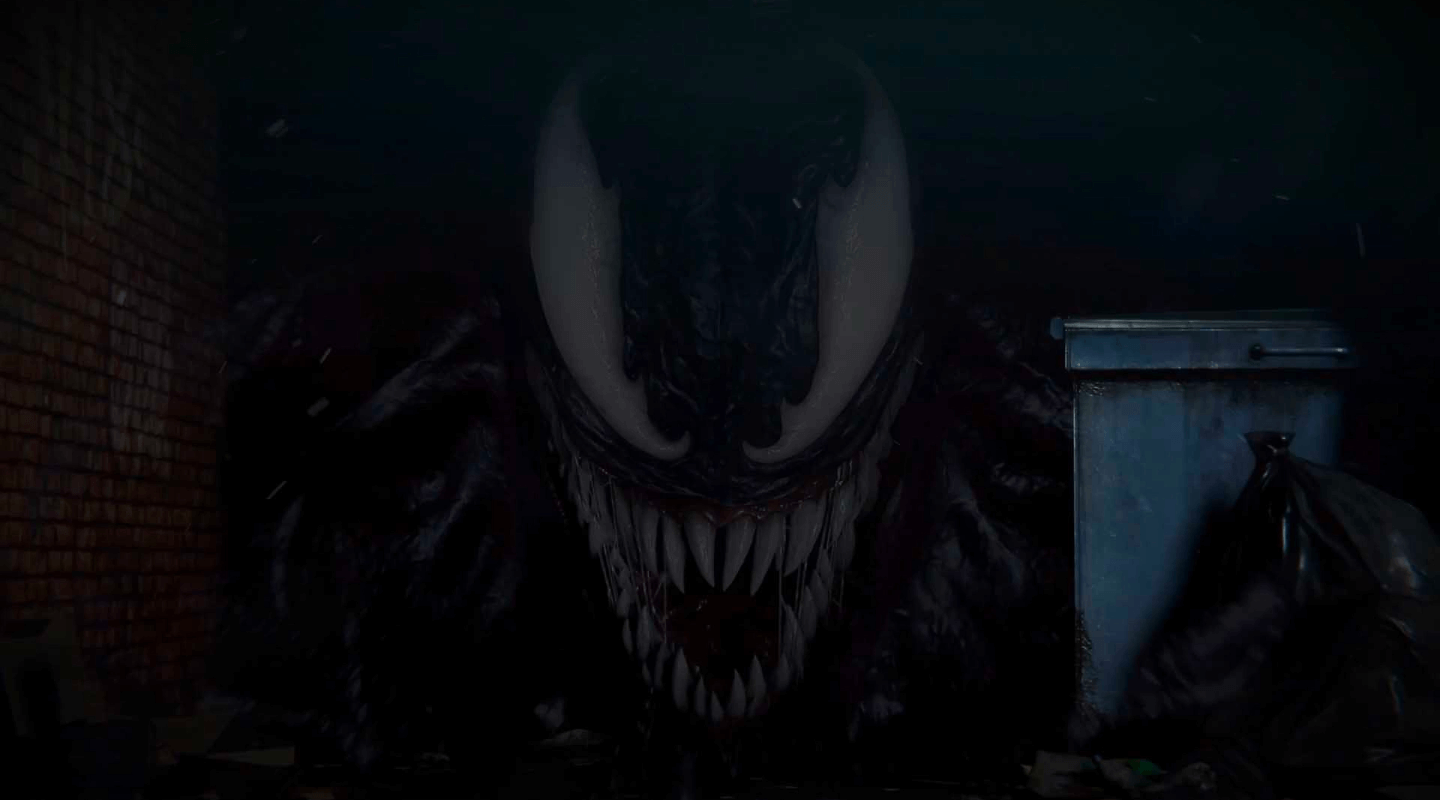
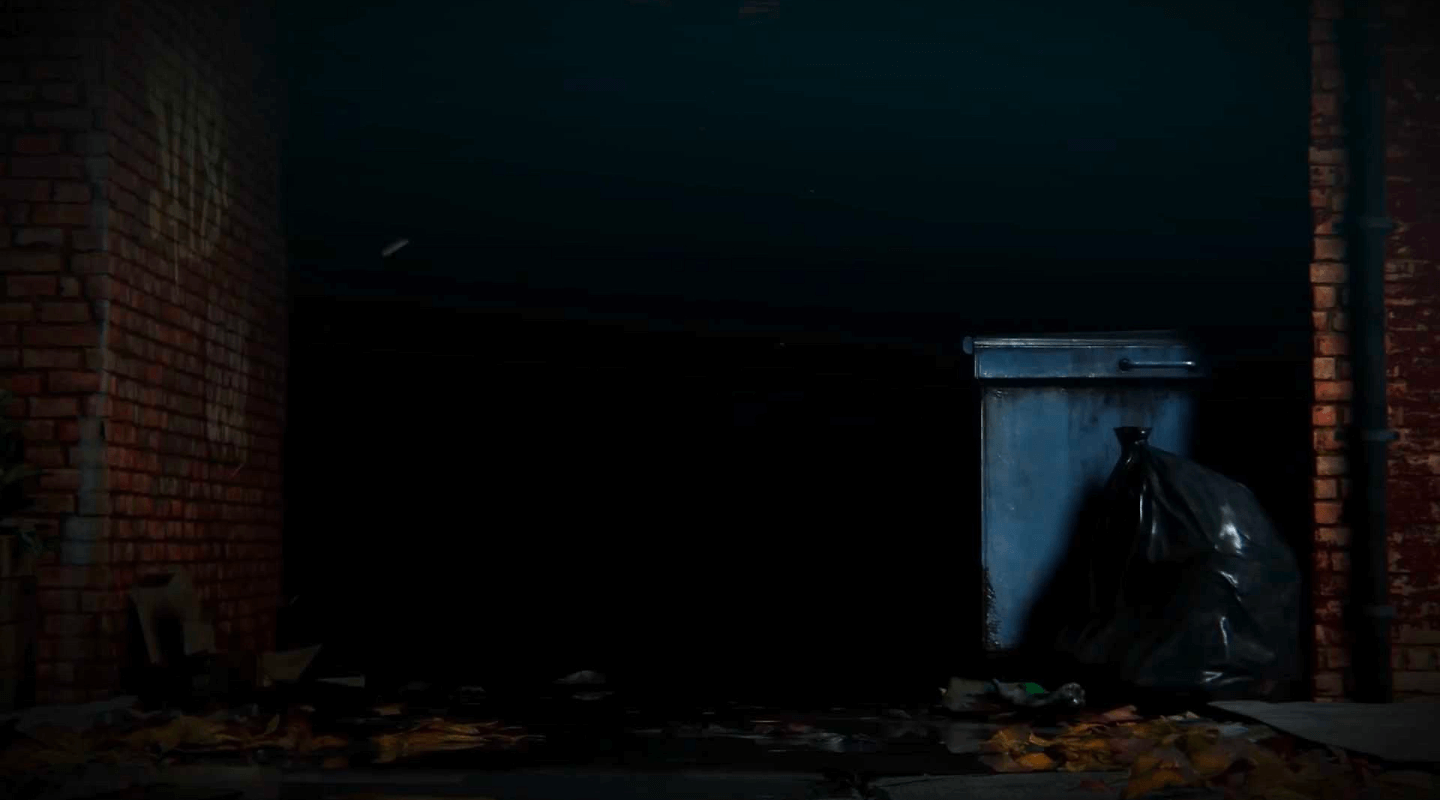
:construction: feat: Added animations and changed the background images to cycle through all images in the /img/bg/ directory.

diff --git a/css/styles.css b/css/styles.css
@@ -76,6 +76,7 @@ header {
 	display: flex;
 	background-color: rgb(0 4 7 / 0.9);
 	backdrop-filter: blur(4rem);
+	z-index: 20;
 }
 
 header .container {
@@ -129,6 +130,7 @@ header button:hover {
 .s-hero .left {
 	width: 100%;
 	max-width: 62.2rem;
+	animation: fadeInUp 500ms linear;
 }
 
 .s-hero .left .platform {
@@ -438,6 +440,10 @@ header button:hover {
 	align-items: center;
 	flex-direction: column;
 	justify-content: center;
+	background-repeat: no-repeat;
+	background-position: center center;
+	background-size: cover;
+	animation: changeBG 10s infinite linear;
 }
 
 .s-vilao h2 {
@@ -508,4 +514,59 @@ footer .right span {
 	font-size: 1.2rem;
 	font-weight: 500;
 	line-height: 150%;
+}
+
+/* KEYFRAMES */
+@keyframes fadeInUp {
+	from {
+		opacity: 0;
+		transform: translateY(2rem);
+	}
+
+	to {
+		opacity: 1;
+		transform: translateY(0);
+	}
+}
+
+@keyframes changeBG {
+	0% {
+		background-image: url("../img/bg/01.png");
+	}
+
+	20% {
+		background-image: url("../img/bg/02.png");
+	}
+
+	35% {
+		background-image: url("../img/bg/03.png");
+	}
+
+	45% {
+		background-image: url("../img/bg/04.png");
+	}
+
+	55% {
+		background-image: url("../img/bg/05.png");
+	}
+
+	65% {
+		background-image: url("../img/bg/06.png");
+	}
+
+	75% {
+		background-image: url("../img/bg/07.png");
+	}
+
+	85% {
+		background-image: url("../img/bg/08.png");
+	}
+
+	95% {
+		background-image: url("../img/bg/09.png");
+	}
+
+	100% {
+		background-image: url("../img/bg/01.png");
+	}
 }
